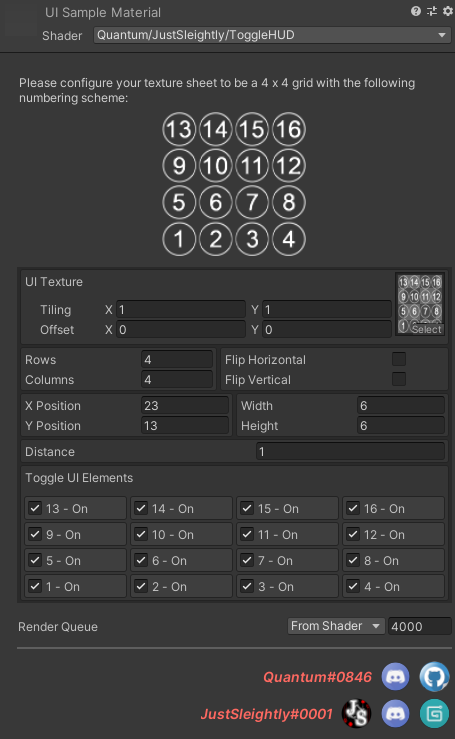
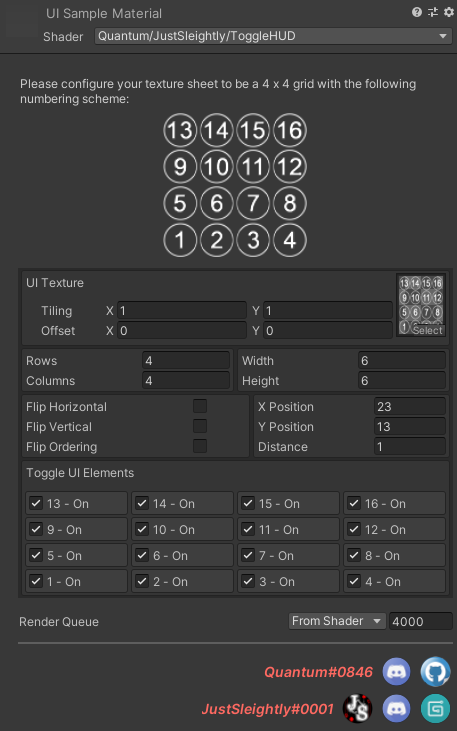
Implement Flip Ordering into Editor

diff --git a/Editor/ToggleHUDEditor.cs b/Editor/ToggleHUDEditor.cs
@@ -2,7 +2,6 @@
 using UnityEngine;
 using UnityEditor;
 using UnityEngine.Networking;
-using Unity.Jobs;
 
 public class ToggleHUDEditor : ShaderGUI
 {
@@ -54,7 +53,7 @@ public class ToggleHUDEditor : ShaderGUI
         MaterialProperty columns = ShaderGUI.FindProperty("_Columns", properties);
         MaterialProperty flipHor = ShaderGUI.FindProperty("_FlipHorizontal", properties);
         MaterialProperty flipVer = ShaderGUI.FindProperty("_FlipVertical", properties);
-        MaterialProperty renderQueue = ShaderGUI.FindProperty("_FlipVertical", properties);
+        MaterialProperty flipOrder = ShaderGUI.FindProperty("_OrderVertical", properties);
 
         MaterialProperty[] togglesMaterial = new MaterialProperty[16]
         {
@@ -180,13 +179,29 @@ public class ToggleHUDEditor : ShaderGUI
 
                 using (new EditorGUILayout.VerticalScope("HelpBox")) //Vertical Formatting
                 {
-                    materialEditor.ShaderProperty(flipHor, new GUIContent("Flip Horizontal", "Swap the UI to render from right to left instead of left to right"));
-                    materialEditor.ShaderProperty(flipVer, new GUIContent("Flip Vertical", "Swap the UI to render from top to bottom instead of bottom to top"));
+                    using (new EditorGUILayout.HorizontalScope()) //Horizontal Formatting
+                    {
+                        EditorGUILayout.LabelField(new GUIContent("Width", "Define the X scale of the UI"), GUILayout.Width((float)Screen.width / 4));
+                        width.floatValue = EditorGUILayout.FloatField(width.floatValue);
+                    }
+
+                    using (new EditorGUILayout.HorizontalScope()) //Horizontal Formatting
+                    {
+                        EditorGUILayout.LabelField(new GUIContent("Height", "Define the Y scale of the UI"), GUILayout.Width((float)Screen.width / 4));
+                        height.floatValue = EditorGUILayout.FloatField(height.floatValue);
+                    }
                 }
             }
 
             using (new EditorGUILayout.HorizontalScope()) //Horizontal Formatting
             {
+                using (new EditorGUILayout.VerticalScope("HelpBox")) //Vertical Formatting
+                {
+                    materialEditor.ShaderProperty(flipHor, new GUIContent("Flip Horizontal", "Swap the UI to render from right to left instead of left to right"));
+                    materialEditor.ShaderProperty(flipVer, new GUIContent("Flip Vertical", "Swap the UI to render from top to bottom instead of bottom to top"));
+                    materialEditor.ShaderProperty(flipOrder, new GUIContent("Flip Ordering", "Swap the direction the UI orders the icons to vertical instead of horizontal"));
+                }
+
                 using (new EditorGUILayout.VerticalScope("HelpBox")) //Vertical Formatting
                 {
                     using (new EditorGUILayout.HorizontalScope()) //Horizontal Formatting
@@ -200,124 +215,216 @@ public class ToggleHUDEditor : ShaderGUI
                         EditorGUILayout.LabelField(new GUIContent("Y Position", "Define where the UI will render in Y viewspace"), GUILayout.Width((float) Screen.width / 4));
                         yPos.floatValue = EditorGUILayout.FloatField(yPos.floatValue);
                     }
+                    
+                    using (new EditorGUILayout.HorizontalScope()) //Horizontal Formatting
+                    {
+                        EditorGUILayout.LabelField(new GUIContent("Distance", "Define the simulated distance from the view"), GUILayout.Width((float)Screen.width / 4));
+                        distance.floatValue = EditorGUILayout.FloatField(distance.floatValue);
+                    }
                 }
+            }
+
+            if (Mathf.Approximately(flipOrder.floatValue, 0))
+            {
+                bool[,] toggles = new bool[(int)rows.floatValue, (int)columns.floatValue];
+                int[,] togglevalues = new int[(int)rows.floatValue, (int)columns.floatValue];
+
+                int initCount = 0;
+
+                for (int i = 0; i < rows.floatValue; i++)
+                {
+                    for (int j = 0; j < columns.floatValue; j++)
+                    {
+                        toggles[i, j] = Mathf.Approximately(togglesMaterial[initCount].floatValue, 1);
+                        togglevalues[i, j] = initCount + 1;
+                        initCount++;
+                    }
+                }
+
+                EditorGUI.BeginChangeCheck();
 
                 using (new EditorGUILayout.VerticalScope("HelpBox")) //Vertical Formatting
                 {
-                    using (new EditorGUILayout.HorizontalScope()) //Horizontal Formatting
+                    EditorGUILayout.LabelField(new GUIContent("Toggle UI Elements", "Toggle the display of each UI icon using the checkboxes below"), GUILayout.Width((float) Screen.width / 2));
+
+                    EditorGUILayout.Space(); //add space
+
+                    if (Mathf.Approximately(flipHor.floatValue, 0) && Mathf.Approximately(flipVer.floatValue, 0))
                     {
-                        EditorGUILayout.LabelField(new GUIContent("Width", "Define the X scale of the UI"), GUILayout.Width((float) Screen.width / 4));
-                        width.floatValue = EditorGUILayout.FloatField(width.floatValue);
+                        for (int i = (int) rows.floatValue - 1; i >= 0; i--)
+                        {
+                            EditorGUILayout.BeginHorizontal();
+                            for (int j = 0; j < columns.floatValue; j++)
+                            {
+                                EditorGUILayout.BeginVertical("HelpBox");
+                                toggles[i, j] = EditorGUILayout.ToggleLeft(new GUIContent(togglevalues[i, j].ToString() + " - " + (toggles[i, j] ? "On " : "Off"), "Toggles this UI " + (toggles[i, j] ? "Off " : "On")), toggles[i, j], GUILayout.Width(70));
+                                EditorGUILayout.EndVertical();
+                            }
+
+                            EditorGUILayout.EndHorizontal();
+                        }
+                    }
+                    else if (Mathf.Approximately(flipHor.floatValue, 0) && Mathf.Approximately(flipVer.floatValue, 1))
+                    {
+                        for (int i = 0; i < rows.floatValue; i++)
+                        {
+                            EditorGUILayout.BeginHorizontal();
+                            for (int j = 0; j < columns.floatValue; j++)
+                            {
+                                EditorGUILayout.BeginVertical("HelpBox");
+                                toggles[i, j] = EditorGUILayout.ToggleLeft(new GUIContent(togglevalues[i, j].ToString() + " - " + (toggles[i, j] ? "On " : "Off"), "Toggles this UI " + (toggles[i, j] ? "Off " : "On")), toggles[i, j], GUILayout.Width(70));
+                                EditorGUILayout.EndVertical();
+                            }
+
+                            EditorGUILayout.EndHorizontal();
+                        }
+                    }
+                    else if (Mathf.Approximately(flipHor.floatValue, 1) && Mathf.Approximately(flipVer.floatValue, 0))
+                    {
+                        for (int i = (int) rows.floatValue - 1; i >= 0; i--)
+                        {
+                            EditorGUILayout.BeginHorizontal();
+                            for (int j = (int) columns.floatValue - 1; j >= 0; j--)
+                            {
+                                EditorGUILayout.BeginVertical("HelpBox");
+                                toggles[i, j] = EditorGUILayout.ToggleLeft(new GUIContent(togglevalues[i, j].ToString() + " - " + (toggles[i, j] ? "On " : "Off"), "Toggles this UI " + (toggles[i, j] ? "Off " : "On")), toggles[i, j], GUILayout.Width(70));
+                                EditorGUILayout.EndVertical();
+                            }
+
+                            EditorGUILayout.EndHorizontal();
+                        }
+                    }
+                    else if (Mathf.Approximately(flipHor.floatValue, 1) && Mathf.Approximately(flipVer.floatValue, 1))
+                    {
+                        for (int i = 0; i < rows.floatValue; i++)
+                        {
+                            EditorGUILayout.BeginHorizontal();
+                            for (int j = (int)columns.floatValue - 1; j >= 0; j--)
+                            {
+                                EditorGUILayout.BeginVertical("HelpBox");
+                                toggles[i, j] = EditorGUILayout.ToggleLeft(new GUIContent(togglevalues[i, j].ToString() + " - " + (toggles[i, j] ? "On " : "Off"), "Toggles this UI " + (toggles[i, j] ? "Off " : "On")), toggles[i, j], GUILayout.Width(70));
+                                EditorGUILayout.EndVertical();
+                            }
+
+                            EditorGUILayout.EndHorizontal();
+                        }
                     }
 
-                    using (new EditorGUILayout.HorizontalScope()) //Horizontal Formatting
+                    if (EditorGUI.EndChangeCheck())
                     {
-                        EditorGUILayout.LabelField(new GUIContent("Height", "Define the Y scale of the UI"), GUILayout.Width((float) Screen.width / 4));
-                        height.floatValue = EditorGUILayout.FloatField(height.floatValue);
+                        int finCount = 0;
+
+                        for (int i = 0; i < rows.floatValue; i++)
+                        {
+                            for (int j = 0; j < columns.floatValue; j++)
+                            {
+                                togglesMaterial[finCount].floatValue = toggles[i, j] ? 1f : 0f;
+                                finCount++;
+                            }
+                        }
                     }
                 }
             }
-
-            using (new EditorGUILayout.HorizontalScope("HelpBox")) //Horizontal Formatting
+            else
             {
-                EditorGUILayout.LabelField(new GUIContent("Distance", "Define the simulated distance from the view"), GUILayout.Width((float) Screen.width / 2));
-                distance.floatValue = EditorGUILayout.FloatField(distance.floatValue);
-            }
-            
-            bool[,] toggles = new bool[(int)rows.floatValue, (int)columns.floatValue];
-            int[,] togglevalues = new int[(int)rows.floatValue, (int)columns.floatValue];
+                bool[,] toggles = new bool[(int)columns.floatValue, (int)rows.floatValue];
+                int[,] togglevalues = new int[(int)columns.floatValue, (int)rows.floatValue];
 
-            int initCount = 0;
+                int initCount = 0;
 
-            for (int i = 0; i < rows.floatValue; i++)
-            {
-                for (int j = 0; j < columns.floatValue; j++)
+                for (int i = 0; i < columns.floatValue; i++)
                 {
-                    toggles[i, j] = Mathf.Approximately(togglesMaterial[initCount].floatValue, 1);
-                    togglevalues[i, j] = initCount + 1;
-                    initCount++;
-                }
-            }
-
-            EditorGUI.BeginChangeCheck();
-
-            using (new EditorGUILayout.VerticalScope("HelpBox")) //Vertical Formatting
-            {
-                EditorGUILayout.LabelField(new GUIContent("Toggle UI Elements", "Toggle the display of each UI icon using the checkboxes below"), GUILayout.Width((float) Screen.width / 2));
-
-                EditorGUILayout.Space(); //add space
-
-                if (Mathf.Approximately(flipHor.floatValue, 0) && Mathf.Approximately(flipVer.floatValue, 0))
-                {
-                    for (int i = (int) rows.floatValue - 1; i >= 0; i--)
+                    for (int j = 0; j < rows.floatValue; j++)
                     {
-                        EditorGUILayout.BeginHorizontal();
-                        for (int j = 0; j < columns.floatValue; j++)
-                        {
-                            EditorGUILayout.BeginVertical("HelpBox");
-                            toggles[i, j] = EditorGUILayout.ToggleLeft(new GUIContent(togglevalues[i, j].ToString() + " - " + (toggles[i, j] ? "On " : "Off"), "Toggles this UI " + (toggles[i, j] ? "Off " : "On")), toggles[i, j], GUILayout.Width(70));
-                            EditorGUILayout.EndVertical();
-                        }
-
-                        EditorGUILayout.EndHorizontal();
-                    }
-                }
-                else if (Mathf.Approximately(flipHor.floatValue, 0) && Mathf.Approximately(flipVer.floatValue, 1))
-                {
-                    for (int i = 0; i < rows.floatValue; i++)
-                    {
-                        EditorGUILayout.BeginHorizontal();
-                        for (int j = 0; j < columns.floatValue; j++)
-                        {
-                            EditorGUILayout.BeginVertical("HelpBox");
-                            toggles[i, j] = EditorGUILayout.ToggleLeft(new GUIContent(togglevalues[i, j].ToString() + " - " + (toggles[i, j] ? "On " : "Off"), "Toggles this UI " + (toggles[i, j] ? "Off " : "On")), toggles[i, j], GUILayout.Width(70));
-                            EditorGUILayout.EndVertical();
-                        }
-
-                        EditorGUILayout.EndHorizontal();
-                    }
-                }
-                else if (Mathf.Approximately(flipHor.floatValue, 1) && Mathf.Approximately(flipVer.floatValue, 1))
-                {
-                    for (int i = 0; i < rows.floatValue; i++)
-                    {
-                        EditorGUILayout.BeginHorizontal();
-                        for (int j = (int) columns.floatValue - 1; j >= 0; j--)
-                        {
-                            EditorGUILayout.BeginVertical("HelpBox");
-                            toggles[i, j] = EditorGUILayout.ToggleLeft(new GUIContent(togglevalues[i, j].ToString() + " - " + (toggles[i, j] ? "On " : "Off"), "Toggles this UI " + (toggles[i, j] ? "Off " : "On")), toggles[i, j], GUILayout.Width(70));
-                            EditorGUILayout.EndVertical();
-                        }
-
-                        EditorGUILayout.EndHorizontal();
-                    }
-                }
-                else if (Mathf.Approximately(flipHor.floatValue, 1) && Mathf.Approximately(flipVer.floatValue, 0))
-                {
-                    for (int i = (int) rows.floatValue - 1; i >= 0; i--)
-                    {
-                        EditorGUILayout.BeginHorizontal();
-                        for (int j = (int) columns.floatValue - 1; j >= 0; j--)
-                        {
-                            EditorGUILayout.BeginVertical("HelpBox");
-                            toggles[i, j] = EditorGUILayout.ToggleLeft(new GUIContent(togglevalues[i, j].ToString() + " - " + (toggles[i, j] ? "On " : "Off"), "Toggles this UI " + (toggles[i, j] ? "Off " : "On")), toggles[i, j], GUILayout.Width(70));
-                            EditorGUILayout.EndVertical();
-                        }
-
-                        EditorGUILayout.EndHorizontal();
+                        toggles[i, j] = Mathf.Approximately(togglesMaterial[initCount].floatValue, 1);
+                        togglevalues[i, j] = initCount + 1;
+                        initCount++;
                     }
                 }
 
-                if (EditorGUI.EndChangeCheck())
-                {
-                    int finCount = 0;
+                EditorGUI.BeginChangeCheck();
 
-                    for (int i = 0; i < rows.floatValue; i++)
+                using (new EditorGUILayout.VerticalScope("HelpBox")) //Vertical Formatting
+                {
+                    EditorGUILayout.LabelField(new GUIContent("Toggle UI Elements", "Toggle the display of each UI icon using the checkboxes below"), GUILayout.Width((float)Screen.width / 2));
+
+                    EditorGUILayout.Space(); //add space
+
+                    using (new EditorGUILayout.HorizontalScope()) //Vertical Formatting
                     {
-                        for (int j = 0; j < columns.floatValue; j++)
+                        if (Mathf.Approximately(flipHor.floatValue, 0) && Mathf.Approximately(flipVer.floatValue, 0))
                         {
-                            togglesMaterial[finCount].floatValue = toggles[i, j] ? 1f : 0f;
-                            finCount++;
+                            for (int i = 0; i < columns.floatValue; i++)
+                            {
+                                EditorGUILayout.BeginVertical();
+                                for (int j = (int)rows.floatValue - 1; j >= 0; j--)
+                                {
+                                    EditorGUILayout.BeginHorizontal("HelpBox");
+                                    toggles[i, j] = EditorGUILayout.ToggleLeft(new GUIContent(togglevalues[i, j].ToString() + " - " + (toggles[i, j] ? "On " : "Off"), "Toggles this UI " + (toggles[i, j] ? "Off " : "On")), toggles[i, j], GUILayout.Width(70));
+                                    EditorGUILayout.EndHorizontal();
+                                }
+
+                                EditorGUILayout.EndVertical();
+                            }
+                        }
+                        else if (Mathf.Approximately(flipHor.floatValue, 1) && Mathf.Approximately(flipVer.floatValue, 0))
+                        {
+                            for (int i = (int)columns.floatValue - 1; i >= 0; i--)
+                            {
+                                EditorGUILayout.BeginVertical();
+                                for (int j = (int)rows.floatValue - 1; j >= 0; j--)
+                                {
+                                    EditorGUILayout.BeginHorizontal("HelpBox");
+                                    toggles[i, j] = EditorGUILayout.ToggleLeft(new GUIContent(togglevalues[i, j].ToString() + " - " + (toggles[i, j] ? "On " : "Off"), "Toggles this UI " + (toggles[i, j] ? "Off " : "On")), toggles[i, j], GUILayout.Width(70));
+                                    EditorGUILayout.EndHorizontal();
+                                }
+
+                                EditorGUILayout.EndVertical();
+                            }
+                        }
+                        else if (Mathf.Approximately(flipHor.floatValue, 0) && Mathf.Approximately(flipVer.floatValue, 1))
+                        {
+                            for (int i = 0; i < columns.floatValue; i++)
+                            {
+                                EditorGUILayout.BeginVertical();
+                                for (int j = 0; j < rows.floatValue; j++)
+                                {
+                                    EditorGUILayout.BeginHorizontal("HelpBox");
+                                    toggles[i, j] = EditorGUILayout.ToggleLeft(new GUIContent(togglevalues[i, j].ToString() + " - " + (toggles[i, j] ? "On " : "Off"), "Toggles this UI " + (toggles[i, j] ? "Off " : "On")), toggles[i, j], GUILayout.Width(70));
+                                    EditorGUILayout.EndHorizontal();
+                                }
+
+                                EditorGUILayout.EndVertical();
+                            }
+                        }
+                        else if (Mathf.Approximately(flipHor.floatValue, 1) && Mathf.Approximately(flipVer.floatValue, 1))
+                        {
+                            for (int i = (int)columns.floatValue - 1; i >= 0; i--)
+                            {
+                                EditorGUILayout.BeginVertical();
+                                for (int j = 0; j < rows.floatValue; j++)
+                                {
+                                    EditorGUILayout.BeginHorizontal("HelpBox");
+                                    toggles[i, j] = EditorGUILayout.ToggleLeft(new GUIContent(togglevalues[i, j].ToString() + " - " + (toggles[i, j] ? "On " : "Off"), "Toggles this UI " + (toggles[i, j] ? "Off " : "On")), toggles[i, j], GUILayout.Width(70));
+                                    EditorGUILayout.EndHorizontal();
+                                }
+
+                                EditorGUILayout.EndVertical();
+                            }
+                        }
+
+                        if (EditorGUI.EndChangeCheck())
+                        {
+                            int finCount = 0;
+
+                            for (int i = 0; i < columns.floatValue; i++)
+                            {
+                                for (int j = 0; j < rows.floatValue; j++)
+                                {
+                                    togglesMaterial[finCount].floatValue = toggles[i, j] ? 1f : 0f;
+                                    finCount++;
+                                }
+                            }
                         }
                     }
                 }
